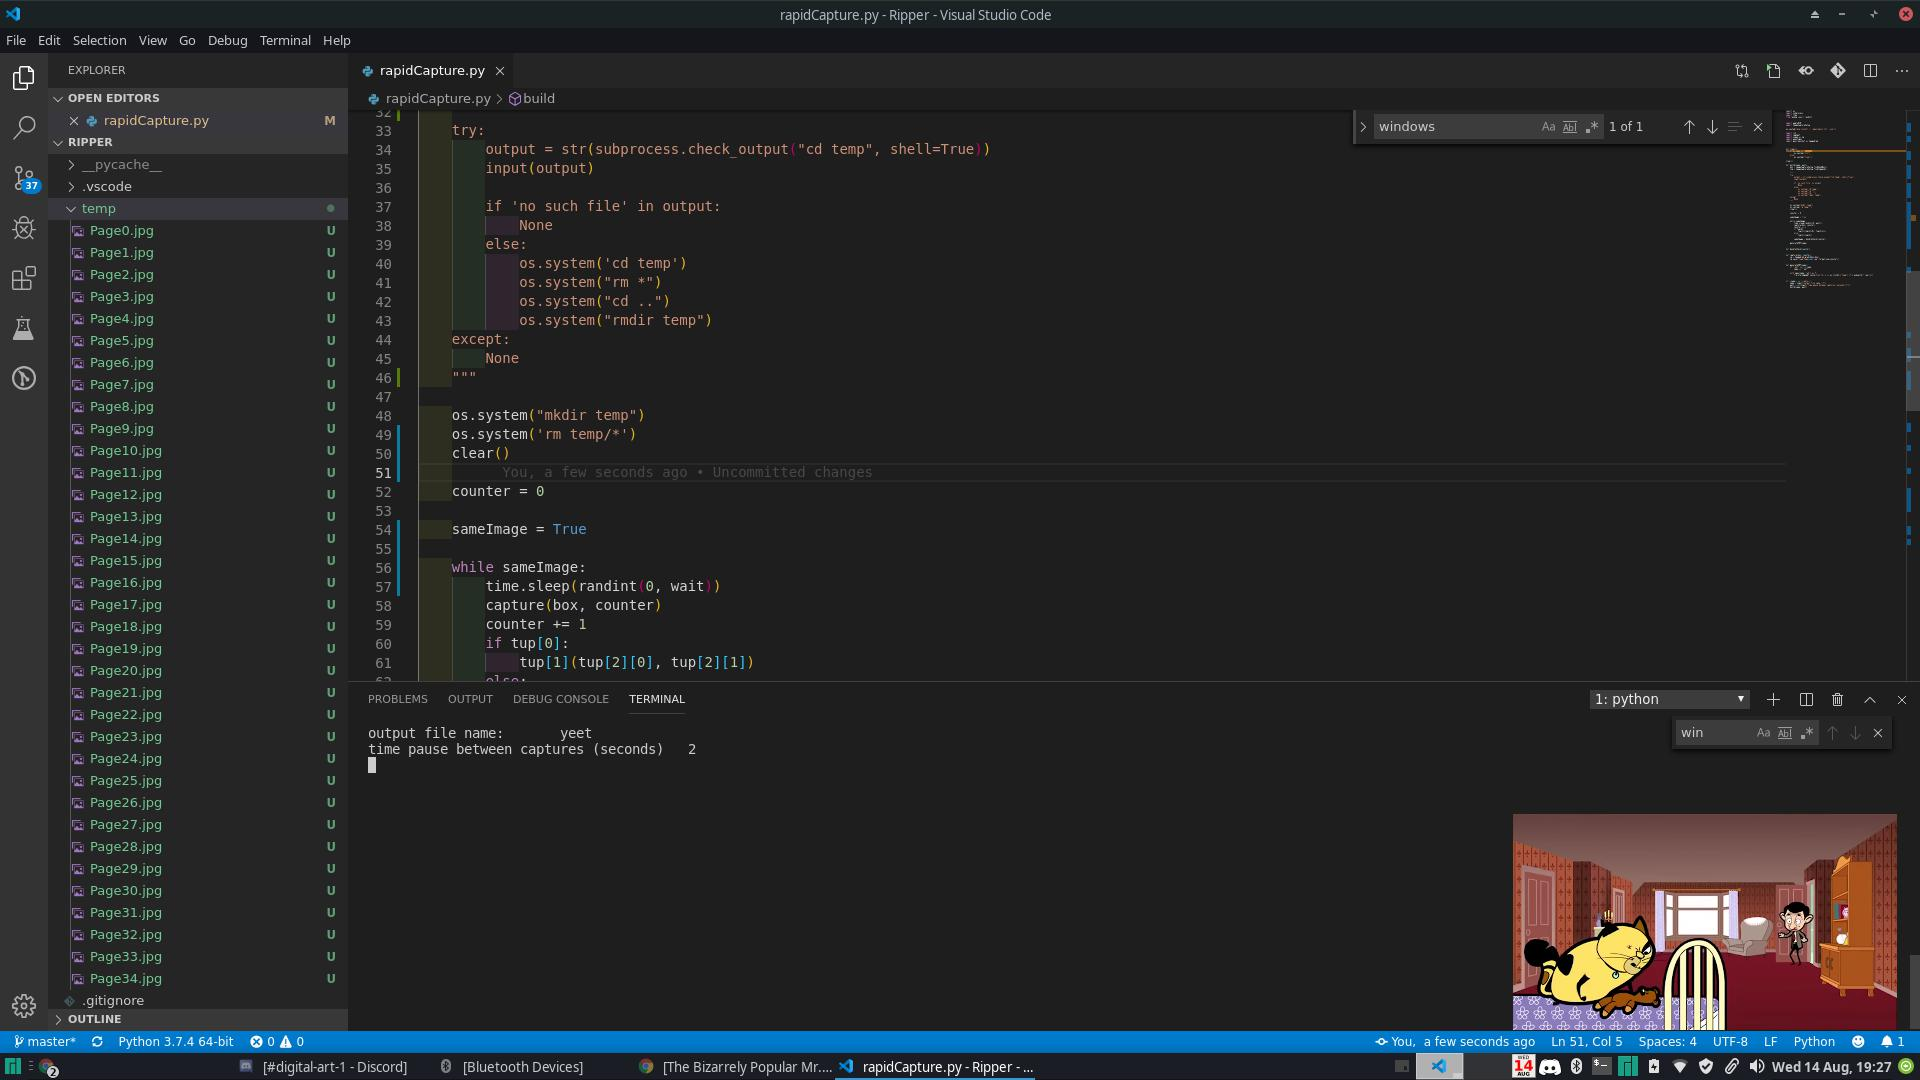
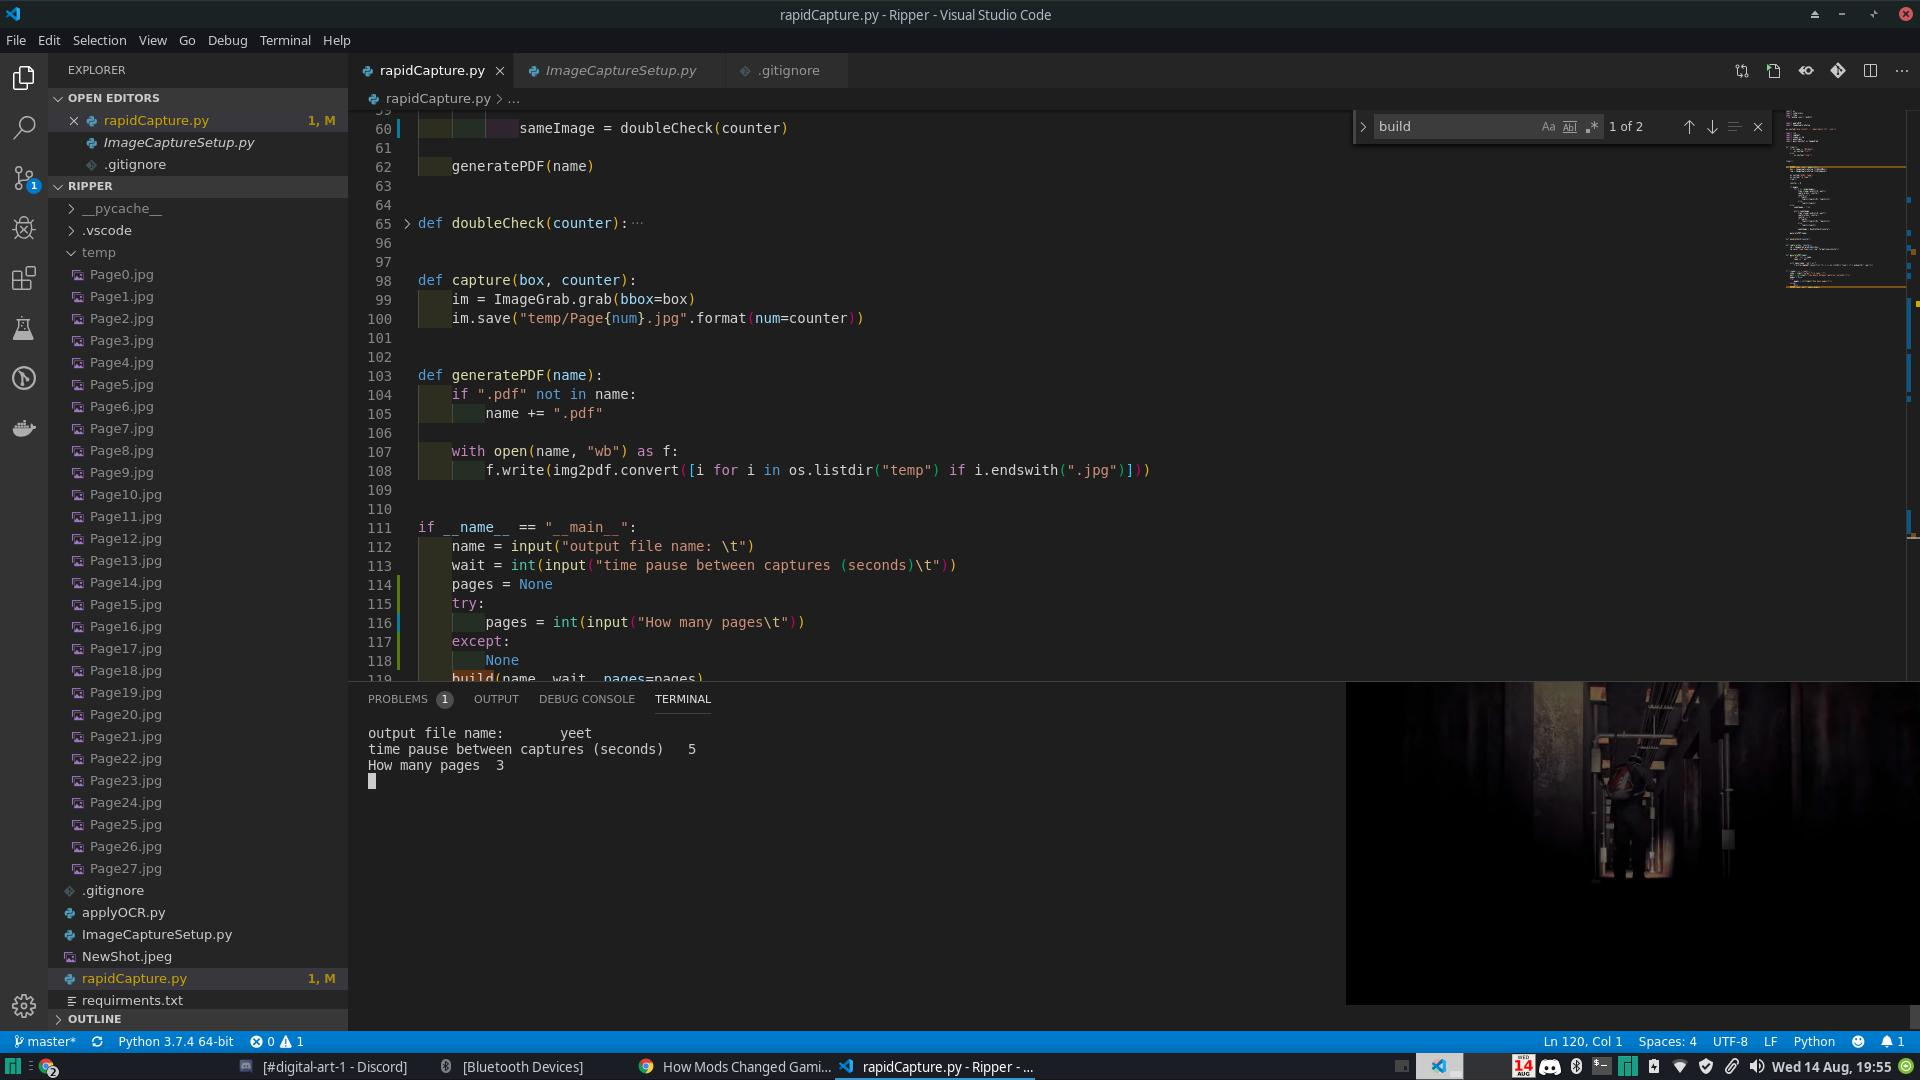
Worked on some page limiter and gotta get the pdf to render correctly

diff --git a/rapidCapture.py b/rapidCapture.py
@@ -16,53 +16,48 @@ import pyautogui
 import pyscreenshot as ImageGrab
 
 
-
 def clear():
     if os.name == "Windows":
         os.system("cls")
     else:
         os.system("clear")
 
+
 clear()
+
 
 def build(name, wait, pages=None):
     box = ImageCaptureSetup.findGoodBox()
     tup = ImageCaptureSetup.findCommand()
 
-    """
-    try:
-        output = str(subprocess.check_output("cd temp", shell=True))
-        input(output)
-        
-        if 'no such file' in output:
-            None
-        else:
-            os.system('cd temp')
-            os.system("rm *")
-            os.system("cd ..")
-            os.system("rmdir temp")
-    except:
-        None
-    """
-
     os.system("mkdir temp")
-    os.system('rm temp/*')
+    os.system("rm temp/*")
     clear()
 
     counter = 0
 
-    sameImage = True
+    if pages:
+        for i in range(pages):
+            time.sleep(randint(0, wait))
+            capture(box, counter)
+            counter += 1
+            if tup[0]:
+                tup[1](tup[2][0], tup[2][1])
+            else:
+                tup[1](tup[2])
+    else:
+        sameImage = True
 
-    while sameImage:
-        time.sleep(randint(0, wait))
-        capture(box, counter)
-        counter += 1
-        if tup[0]:
-            tup[1](tup[2][0], tup[2][1])
-        else:
-            tup[1](tup[2])
+        while sameImage:
+            time.sleep(randint(0, wait))
+            capture(box, counter)
+            counter += 1
+            if tup[0]:
+                tup[1](tup[2][0], tup[2][1])
+            else:
+                tup[1](tup[2])
 
-        sameImage = doubleCheck(counter)
+            sameImage = doubleCheck(counter)
 
     generatePDF(name)
 
@@ -116,5 +111,9 @@ def generatePDF(name):
 if __name__ == "__main__":
     name = input("output file name: \t")
     wait = int(input("time pause between captures (seconds)\t"))
-    pages = int(input("How many pages\t"))
+    pages = None
+    try:
+        pages = int(input("How many pages\t"))
+    except:
+        None
     build(name, wait, pages=pages)
